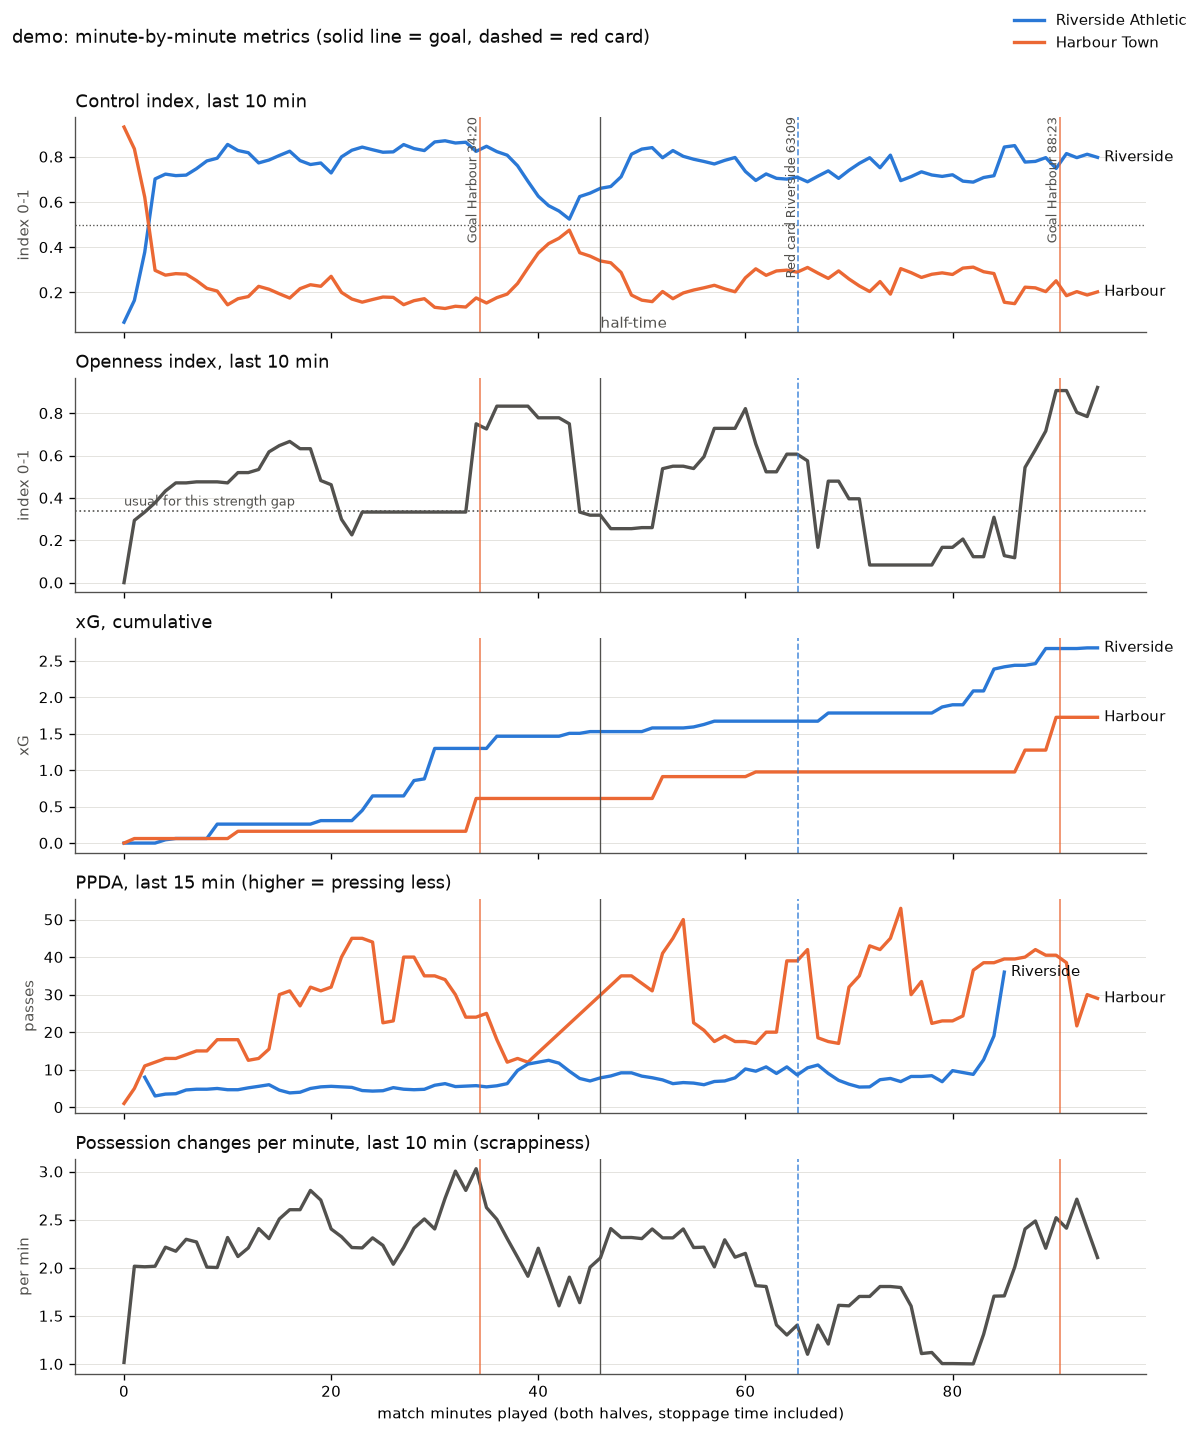
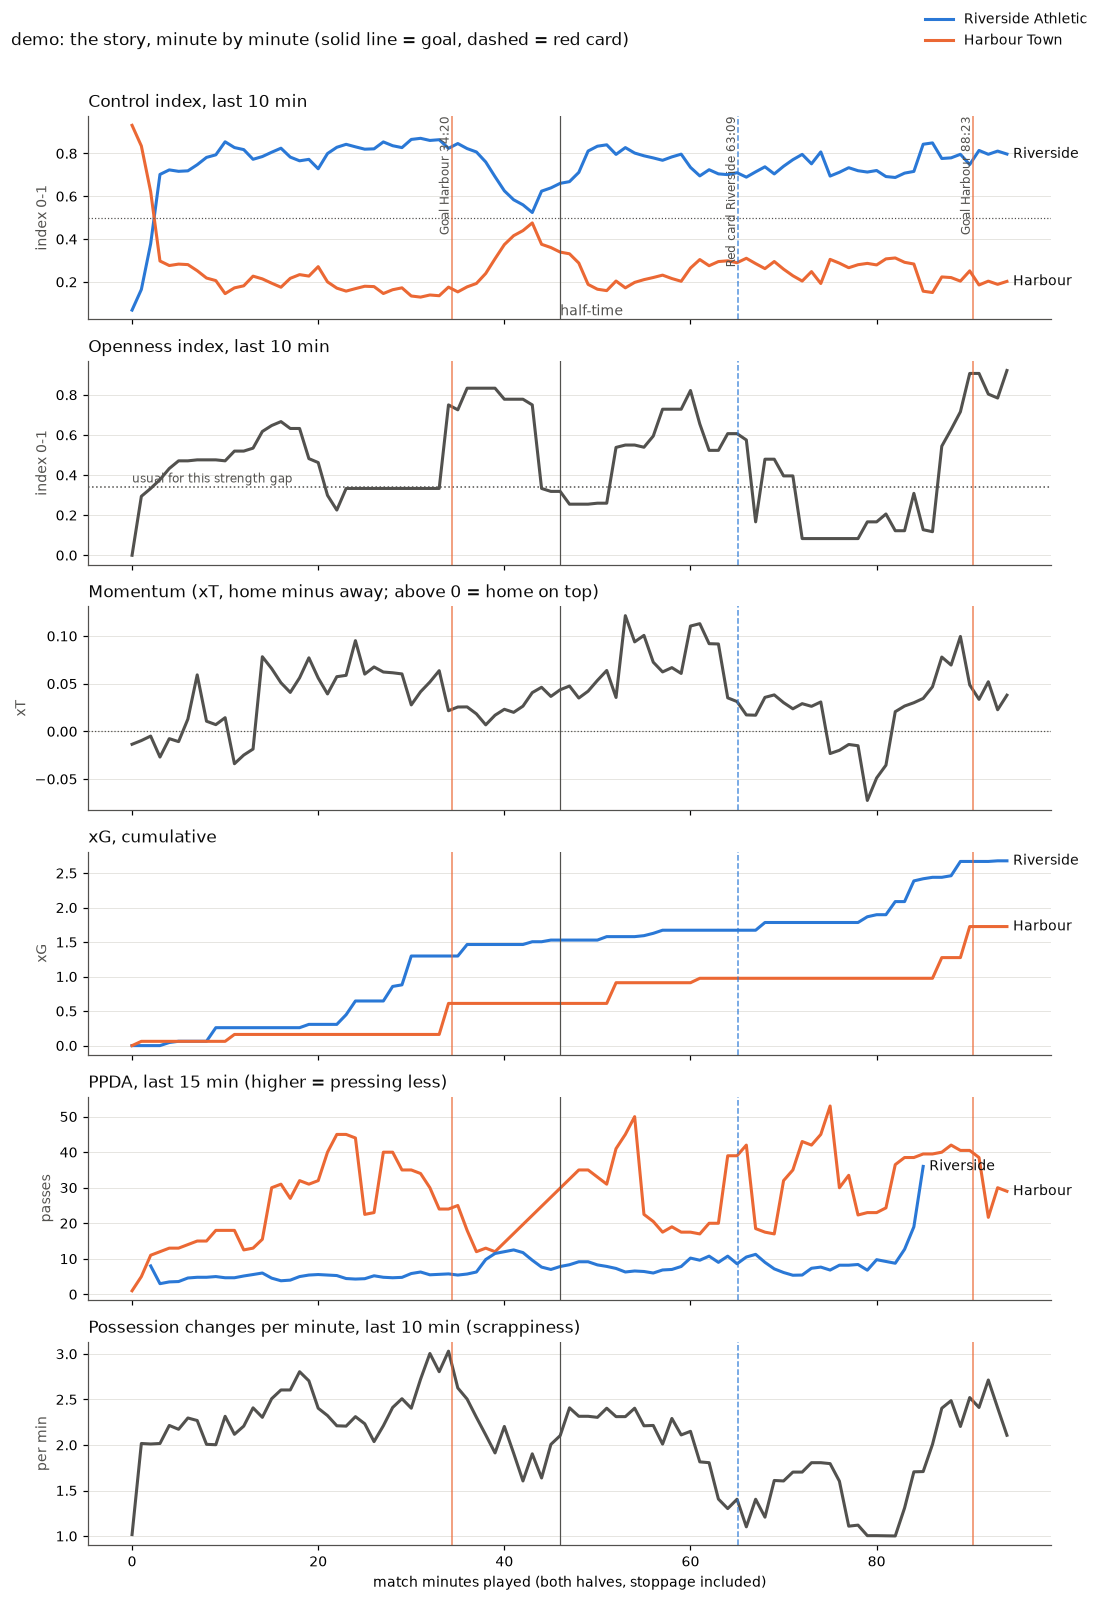
feat(stream,timeline): Phase 2c charts; throttle MatchState saves
Timeline: the story chart adds momentum; a second chart (demo_details.png)
shows every Phase 2c metric. Interpreter: the live MatchState still updates
on every event, but its ~1 MB Postgres copy is saved at most once a second
and at MatchEnd. Fixes the flaky 60x latency test on CI (max 1.135 s);
pinned to one core, max latency 0.33 s -> 0.13 s.

Changed region(s): [[0.0, 0.0625, 0.9891, 1.0], [0.0, 0.0, 0.5564, 0.0312], [0.8345, 0.0, 0.9891, 0.0312]]

diff --git a/scripts/timeline.py b/scripts/timeline.py
@@ -1,6 +1,8 @@
 """Draw a match's metric timeline CSV (from the interpreter) as a PNG.
 
-uv run python -m scripts.timeline docs/timelines/demo.csv   # -> docs/timelines/demo.png
+uv run python -m scripts.timeline docs/timelines/demo.csv
+    -> docs/timelines/demo.png          the story (control, openness, momentum, ...)
+    -> docs/timelines/demo_details.png  every other Phase 2c metric
 """
 
 import csv
@@ -20,6 +22,7 @@ INK, MUTED, GRID = "#0b0b0b", "#52514e", "#e4e3df"
 PANELS = [
     ("control_index_last_10m", "Control index, last 10 min", "index 0-1", True),
     ("openness_index_last_10m", "Openness index, last 10 min", "index 0-1", False),
+    ("momentum", "Momentum (xT, home minus away; above 0 = home on top)", "xT", False),
     ("xg", "xG, cumulative", "xG", False),
     ("ppda_last_15m", "PPDA, last 15 min (higher = pressing less)", "passes", False),
     (
@@ -27,6 +30,53 @@ PANELS = [
         "Possession changes per minute, last 10 min (scrappiness)",
         "per min",
         False,
+    ),
+]
+
+DETAILS = [
+    ("pressure_on_ball_last_10m", "Pressure on the ball, last 10 min", "0-1"),
+    (
+        "final_third_pressures_last_10m",
+        "Final-third pressures per minute, last 10 min",
+        "per min",
+    ),
+    ("high_turnovers_last_10m", "High turnovers, last 10 min", "count"),
+    (
+        "counterpress_regains_last_15m",
+        "Counter-press regains within 5 s, last 15 min",
+        "share",
+    ),
+    (
+        "actions_per_minute_last_10m",
+        "Actions per minute in possession, last 10 min",
+        "per min",
+    ),
+    ("seconds_between_actions_last_10m", "Seconds between actions, last 10 min", "s"),
+    ("xt_added_total_last_10m", "xT added, last 10 min", "xT"),
+    ("big_chances", "Big chances (xG >= 0.3), cumulative", "count"),
+    ("pass_accuracy_last_10m", "Pass accuracy, last 10 min", "share"),
+    ("pass_difficulty_mean_last_10m", "Average pass difficulty, last 10 min", "0-100"),
+    (
+        "lines_broken_per_pass_last_10m",
+        "Lines broken per completed pass, last 10 min",
+        "lines",
+    ),
+    (
+        "defensive_line_gap_last_10m",
+        "Back-midfield line gap while defending, last 10 min",
+        "m",
+    ),
+    (
+        "overloads_last_10m",
+        "Overloads created (danger-weighted), last 10 min",
+        "danger",
+    ),
+    ("bad_situations_last_10m", "Bad situations on the ball, last 10 min", "count"),
+    ("upper_hand_last_10m", "Upper hand (0 none, 1, 2 strong), last 10 min", "level"),
+    (
+        "name_tags",
+        "Name-tag moments (100+ km/h shots, 40+ m passes), cumulative",
+        "count",
     ),
 ]
 
@@ -49,16 +99,18 @@ def half_time(path: Path):
     return min(float(r["minute"]) for r in rows) if rows else None
 
 
-def main(argv=None):
-    path = Path((argv or sys.argv[1:])[0])
-    series, markers = load(path)
-    teams = [o for o in series["xg"]]
-    colour = dict(zip(teams, (HOME, AWAY), strict=False))
-    ht = half_time(path)
-
+def draw(panels, series, markers, colour, ht, title, out, columns=1):
     plt.rcParams.update({"font.size": 9, "axes.edgecolor": MUTED, "text.color": INK})
-    fig, axes = plt.subplots(len(PANELS), 1, figsize=(10, 12), sharex=True)
-    for ax, (metric, title, unit, half_line) in zip(axes, PANELS, strict=True):
+    rows = -(-len(panels) // columns)
+    fig, grid = plt.subplots(
+        rows,
+        columns,
+        figsize=(10 * columns, 2.3 * rows + 0.8),
+        sharex=True,
+        squeeze=False,
+    )
+    axes = [ax for col in range(columns) for ax in grid[:, col]]
+    for ax, (metric, label, unit, *half) in zip(axes, panels, strict=False):
         for owner, points in series[metric].items():
             xs, ys = zip(*points, strict=True)
             c = colour.get(owner, MUTED)
@@ -71,8 +123,10 @@ def main(argv=None):
                 va="center",
                 color=INK,
             )
-        if half_line:
+        if half and half[0]:
             ax.axhline(0.5, color=MUTED, lw=0.8, ls=":")
+        if metric == "momentum":
+            ax.axhline(0, color=MUTED, lw=0.8, ls=":")
         if metric == "openness_index_last_10m":
             # "Usual for this fixture" = openness - openness_vs_expected.
             now = dict(series[metric]["match"])
@@ -88,23 +142,23 @@ def main(argv=None):
                     color=MUTED,
                     fontsize=8,
                 )
-        for minute, kind, owner, clock in markers:
+        for minute, kind, owner, _ in markers:
             ls = "-" if kind == "goal" else "--"
             ax.axvline(minute, color=colour.get(owner, MUTED), lw=1, ls=ls, alpha=0.8)
         if ht is not None:
             ax.axvline(ht, color=MUTED, lw=0.8)
-        ax.set_title(title, loc="left", color=INK)
+        ax.set_title(label, loc="left", color=INK)
         ax.set_ylabel(unit, color=MUTED)
         ax.grid(axis="y", color=GRID, lw=0.6)
         ax.spines[["top", "right"]].set_visible(False)
+    for ax in axes[len(panels) :]:
+        ax.set_visible(False)
 
     top = axes[0]
     for minute, kind, owner, clock in markers:
-        label = ("Goal " if kind == "goal" else "Red card ") + owner.split("_")[
-            0
-        ].title()
+        name = owner.split("_")[0].title()
         top.annotate(
-            f"{label} {clock}",
+            f"{'Goal' if kind == 'goal' else 'Red card'} {name} {clock}",
             (minute, 1.0),
             xycoords=("data", "axes fraction"),
             rotation=90,
@@ -117,18 +171,48 @@ def main(argv=None):
         top.annotate(
             "half-time", (ht, 0.02), xycoords=("data", "axes fraction"), color=MUTED
         )
-    handles, labels = axes[2].get_legend_handles_labels()
-    fig.legend(handles, labels, loc="upper right", frameon=False)
-    axes[-1].set_xlabel("match minutes played (both halves, stoppage time included)")
-    fig.suptitle(
-        f"{path.stem}: minute-by-minute metrics (solid line = goal, dashed = red card)",
-        x=0.01,
-        ha="left",
+    handles, labels = next(
+        (ax.get_legend_handles_labels() for ax in axes if len(ax.get_lines()) >= 2),
+        ([], []),
     )
+    fig.legend(handles[:2], labels[:2], loc="upper right", frameon=False)
+    for col in range(columns):
+        grid[-1, col].set_xlabel(
+            "match minutes played (both halves, stoppage included)"
+        )
+    fig.suptitle(title, x=0.01, ha="left")
     fig.tight_layout(rect=(0, 0, 1, 0.97))
-    out = path.with_suffix(".png")
-    fig.savefig(out, dpi=120)
+    fig.savefig(out, dpi=110)
+    plt.close(fig)
     print(f"wrote {out}")
+
+
+def main(argv=None):
+    path = Path((argv or sys.argv[1:])[0])
+    series, markers = load(path)
+    teams = [o for o in series["xg"]]
+    colour = dict(zip(teams, (HOME, AWAY), strict=False))
+    ht = half_time(path)
+    note = "(solid line = goal, dashed = red card)"
+    draw(
+        PANELS,
+        series,
+        markers,
+        colour,
+        ht,
+        f"{path.stem}: the story, minute by minute {note}",
+        path.with_suffix(".png"),
+    )
+    draw(
+        DETAILS,
+        series,
+        markers,
+        colour,
+        ht,
+        f"{path.stem}: Phase 2c metrics, minute by minute {note}",
+        path.with_name(f"{path.stem}_details.png"),
+        columns=2,
+    )
 
 
 if __name__ == "__main__":

diff --git a/stream/interpreter/__init__.py b/stream/interpreter/__init__.py
@@ -19,12 +19,21 @@ from stream import kafka
 from stream.interpreter.store import Store
 from stream.interpreter.timeline import write_timeline
 
+# The live MatchState updates on every event; the copy in Postgres (for
+# readers, not for correctness: a restart rebuilds from the stored events) is
+# written at most this often, and always at MatchEnd. A full-time state is
+# ~1 MB, too much to write 16 times a second at 60x.
+SAVE_EVERY_S = 1.0
+
 
 class Interpreter:
     def __init__(self, store: Store):
         self.store = store
         self.matches: dict[str, Events] = {}
         self.latencies_s: list[float] = []
+        self.latest: dict[str, MatchState] = {}  # live state, per match
+        self.saved_at: dict[str, float] = {}  # monotonic time of the last save
+        self.saves = 0
         for match, events in store.load():
             self.matches[match.match_id] = Events.for_match(match, events)
 
@@ -41,8 +50,16 @@ class Interpreter:
         events = self.matches[event.match_id]
         events.append(event)
         state = match_state(events)
-        self.store.save_state(event.match_id, state)
+        self.latest[event.match_id] = state
+        if time.monotonic() - self.saved_at.get(event.match_id, -1e9) >= SAVE_EVERY_S:
+            self.save(event.match_id)
         return state
+
+    def save(self, match_id: str) -> None:
+        if match_id in self.latest:
+            self.store.save_state(match_id, self.latest[match_id])
+            self.saved_at[match_id] = time.monotonic()
+            self.saves += 1
 
     def handle(self, msg) -> tuple[bytes, str]:
         contract = kafka.header(msg, "contract")
@@ -56,6 +73,8 @@ class Interpreter:
             sent = int(kafka.header(msg, kafka.SENT_AT))
             self.latencies_s.append((time.time_ns() - sent) / 1e9)
         match_id = msg.key().decode()
+        if contract == kafka.END:
+            self.save(match_id)  # the final state is always in Postgres
         return contract, match_id
 
 

diff --git a/tests/unit/test_stream.py b/tests/unit/test_stream.py
@@ -91,7 +91,10 @@ def test_latency_under_one_second_at_60x(demo_file, topic, database_url):
     sender.join()
     c.close()
     lat = sorted(interp.latencies_s)
+    print(f"60x latency: p50 {lat[len(lat) // 2]:.3f}s, max {lat[-1]:.3f}s")
     assert len(lat) == len(read(demo_file)[1])
     assert lat[-1] < 1.0, f"max latency {lat[-1]:.3f}s"
+    # Postgres gets the state about once a second, not once per event.
+    assert interp.saves < len(lat) / 10
     assert store.load_state(match.match_id) == want
     store.close()

diff --git a/DECISIONS.md b/DECISIONS.md
@@ -240,3 +240,43 @@ Phase 2b: control and chaos metrics (2026-10-21, Ian via the advisor's prompt).
 - Test changes: field-tilt test now checks touches (definition changed by the
   spec, value unchanged, evidence check added); the registry test allows
   analyst-only metrics (scrappiness has no casual name, per the spec).
+
+Phase 2c: remaining metrics (2026-10-22, Ian via the advisor's prompt).
+- Contract: MetricValue gets optional numerator/denominator; every rate
+  fills them (for Wilson intervals later).
+- Overload: Ian chose his own approved version (box 20 m ahead / 10 m back in
+  the ball's lane, recovering defenders count, danger by place), not the
+  prompt's 15 m circle.
+- Pass difficulty weights (Ian, 2026-10-22): passer pressure 25, lines broken
+  25, zone 15, receiver pressure 15, distance 15, forwardness 5. Zone is Ian's
+  addition ("near their box passing is much harder"). See
+  docs/metrics/pass_difficulty.md.
+- Pressure (Ian's answers): weight 1 within 2 m, straight line to 0.2 at
+  5 m; x2 in front of where he faces OR goal-side (x > his x), x2 once even
+  when both; pressure = min(1, sum / 2), so one close opponent = 0.5.
+- Agent's readings of the spec, for Ian to review:
+  - Risk = exp(-(distance to own goal / 40 m)^2): ~0.66 at the box corner,
+    0.18 at halfway; in the final third ~0 when the team has the upper hand
+    (last 10 min), no outfield defender is goal-side, or it has an overload.
+  - The keeper is not in the feed: "keeper" = the player nearest his own goal.
+  - Upper hand without any defender touches in their own third = no
+    "constant pressure" shown = no upper hand. Value 0 / 1 / 2 (strong).
+  - Lines: defenders' outfield x split at the largest gaps into up to 3 lines.
+  - "Pressures" (no pressure events in the feed) = opponent touches in their
+    own third made under pressure.
+  - Counter-press regain: timed from the ball lost to the tackle or
+    interception that won it back (not the next touch).
+- On the demo: seconds between actions is flat at 3 s (the engine stamps
+  whole seconds); name tags fire often for direct teams (40 m passes are
+  common); both are dials for Ian.
+- Display names never judge: Ian's rule name stays `bad_situation` in code;
+  on screen it is "Danger on the ball".
+- Flaky CI fix: test_latency_under_one_second_at_60x failed once on GitHub
+  (max 1.135 s) on the 2b merge and passed on a rerun of the same commit.
+  Cause: the interpreter wrote the full MatchState (~1 MB at full time) to
+  Postgres after every event. The live state still updates per event; the
+  Postgres copy is now saved at most once a second and always at MatchEnd
+  (a restart rebuilds from stored events, so correctness is unchanged).
+  Pinned to one CPU core: max latency 0.331 s per-event saving -> 0.132 s
+  throttled. Limit unchanged (every event < 1 s); the test also checks that
+  saves are throttled.
